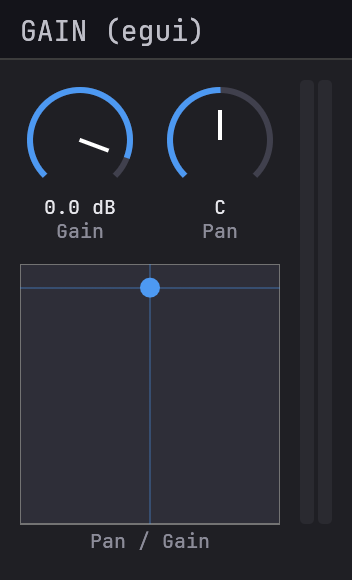
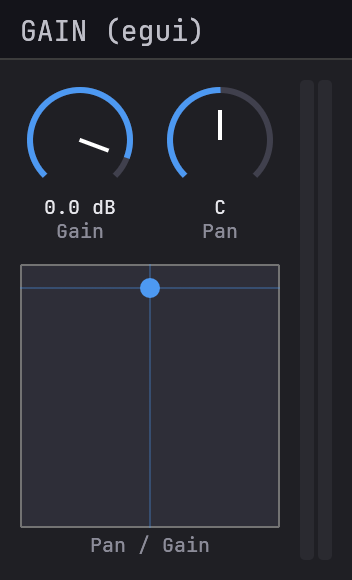
0.57.0 update

Changed region(s): [[0.0625, 0.9, 0.7812, 0.9621]]

diff --git a/src/content/docs/changelog.md b/src/content/docs/changelog.md
@@ -2,6 +2,67 @@
 
 Notable changes per release.
 
+## 0.57.0
+
+- **Windows: wgpu editors pin the DX12 shader compiler to FXC.**
+  Fixes a blank editor (egui, built-in `GpuEditor`) and a host
+  crash (Slint) in Pro Tools. wgpu 29 defaults DX12 to a
+  dynamically-loaded **DXC** (`dxcompiler.dll`); when the host
+  process has already loaded its own incompatible `dxcompiler.dll`
+  (Pro Tools does), `DxcCreateInstance` returns `E_NOINTERFACE`
+  and the *entire* DX12 backend fails to initialise - the wgpu
+  instance ends up with zero adapters, so surface creation fails
+  (white editor, or a panic on Slint's `.expect`). The
+  `truce-gpu`, `truce-gui`, `truce-egui`, and `truce-slint` editor
+  instances now request `Dx12Compiler::Fxc` (`d3dcompiler_47.dll`,
+  always present on Windows, never conflicts). iced (wgpu 0.19,
+  FXC by default) and vizia (OpenGL) were never affected. The
+  Windows editor instances also narrow to `Backends::DX12` (the
+  only backend feature compiled in on Windows). Offscreen/headless
+  screenshot paths are unchanged.
+- **AAX: fix Pro Tools scan hang on Windows.** AAX registration
+  is now lazy - triggered by the first `truce_aax_get_descriptor`
+  query - instead of running from a `.CRT$XCU` library-load static
+  initializer. On Windows the AAX shim `LoadLibraryA`s the cdylib
+  from inside `GetEffectDescriptions` during scanning, so the old
+  initializer ran plugin construction (via `has_editor_static`'s
+  default `create().editor()`, which can touch user32 in editor
+  setup) *under the Windows loader lock* and hung the scan. Now
+  mirrors how VST3/CLAP register lazily on their first host entry
+  point. No API change.
+- **Resizable editors.** Every GUI backend opts in with
+  `.resizable(true).min_size((a, b)).max_size((a, b))` on the
+  editor / layout, and the CLAP, VST3, AU, and LV2 wrappers
+  round-trip host requests to it. Logical points everywhere
+  except the built-in grid, which takes `(cols, rows)` cell
+  counts (it snaps to whole cells anyway). Vizia plugin-form
+  `set_size` is a known gap.
+- **New `Editor` trait methods.** `size_increment() ->
+  Option<(u32, u32)>` (interactive-resize granularity in logical
+  points; the X11 standalone maps it onto `PResizeInc` so
+  window-edge drags snap), `aspect_ratio() -> Option<(u32, u32)>`
+  (`(num, denom)`; CLAP / VST3 / AU v3 / standalone honour it,
+  VST2 / LV2 / AAX silently ignore), and `prefers_pow2() -> bool`
+  (renderer wants power-of-two surface sizes). All have defaults
+  so existing plugins compile unchanged. Matching builder methods
+  on every editor type; iOS variants are no-op stubs.
+- **`truce-vizia`: XY pad label moved to bottom.** Matches the
+  other backends.
+- **`truce-iced` widgets: `meter` and `xy_pad` accept `.width(Length)`,
+  `.height(Length)`, `.fill()`.** Lets the widget stretch with the
+  parent column / row instead of using a fixed pixel size.
+- **`truce-vizia` widgets: `level_meter` height and `xy_pad`
+  `w` / `h` now take `impl Into<Units>`.** Pass `Pixels(n)` for a
+  fixed size, `Stretch(1.0)` to fill the parent layout. Breaking
+  for callers passing `f32` directly: wrap in `Pixels(_)`.
+- **`truce-slint` widgets: `Meter` and `XYPad` use `preferred-*` +
+  `min-*` / `max-*` sizing.** A parent `VerticalLayout` /
+  `HorizontalLayout` can stretch them; the floor sizes keep the
+  widgets usable at the editor's `min_size`.
+- **`baseview-truce 0.1.1-truce.8`.** Adds the macOS
+  `setFrameSize:` `Resized` event + OpenGL drawable resize that
+  host-driven editor resize depends on. To upstream to baseview.
+
 ## 0.56.0
 
 - **`truce-vizia`: `param_knob` layout matches the other backends.**
@@ -657,12 +718,11 @@ re-editing.
 - **MIDI 2.0 over LV2.** LV2 Atom carries MIDI 1.0 byte streams,
   so plugins emitting MIDI 2.0 channel-voice, per-note, or
   ParamChange events drop those messages when loaded as LV2.
-- **Resizable GUIs.** Editors today report a fixed size; CLAP's
-  `gui_can_resize` returns `false` and the VST3 / AU / LV2
-  paths assume a static frame. Host-driven resize negotiation
-  (`gui_adjust_size` / `gui_set_size`, `IPlugViewContentScaleSupport`,
-  AU view-frame change notifications, LV2 ui:resize) needs to be
-  wired through truce-gui so user code can opt in.
+- **`truce-vizia` resize.** Programmatic host-driven resize
+  (`gui_set_size` without an accompanying parent-`NSView` change)
+  records the new logical size on the editor but produces no
+  visual change. Unblocks when `vizia_baseview` upstream adds a
+  window-event resize variant + handler.
 - **Bring-your-own iOS container.** `cargo truce install --ios`
   always emits the bundled Swift container template (title, Play,
   status, hamburger overlay). Plug-ins that need a bespoke shell
